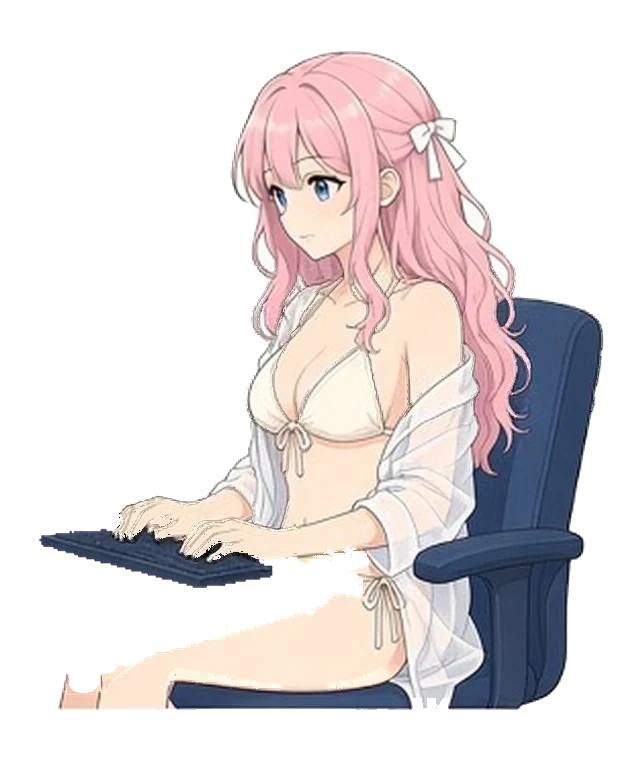
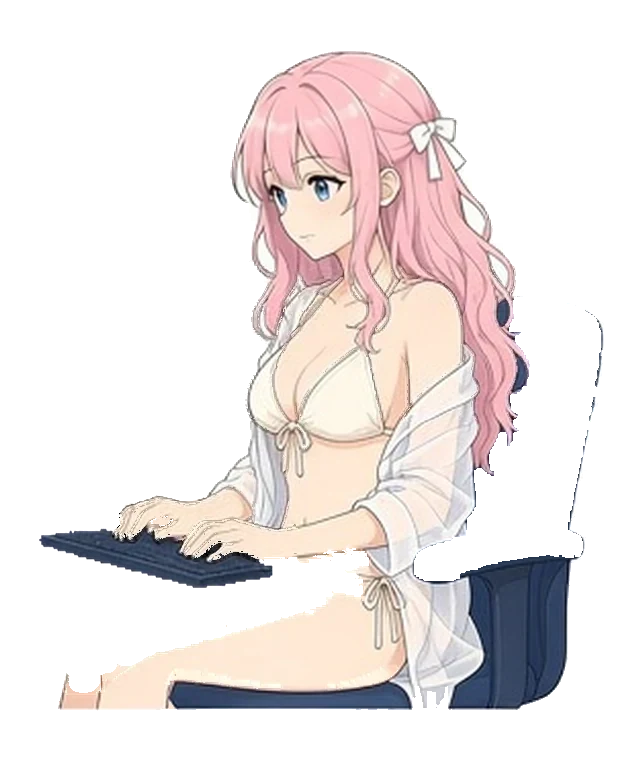
首頁秘書夜間辦公室改為下沉浴缸，托盤接鍵盤並支撐雙螢幕。
立繪去除辦公椅並補單測，保留既有互動與脈動動畫。

Changed region(s): [[0.6394, 0.375, 0.9744, 0.7812], [0.6699, 0.875, 0.7003, 0.9062]]

diff --git a/server/src/main/resources/public/js/private-team-scene.js b/server/src/main/resources/public/js/private-team-scene.js
@@ -65,6 +65,9 @@ export function secretaryTypingDisplayUrl(statusBaseUrl, useTypingB, reducedMoti
 export const PRIVATE_TEAM_ZOOM_MIN = 0.72;
 export const PRIVATE_TEAM_ZOOM_MAX = 2.05;
 
+/** 鍵盤托盤上緣（與原桌面高度相近） */
+export const PRIVATE_TEAM_TRAY_SURFACE_Y = 0.498;
+
 /** 立繪在場景中的高度（公尺比例）；寬度依紋理長寬比計算 */
 const SECRETARY_SPRITE_HEIGHT = 1.42;
 
@@ -78,10 +81,12 @@ const COL = {
   woodDk: 0xa07840,
   wall: 0x243248,
   wallDk: 0x1a2438,
-  rug: 0x6a8fd4,
-  rugEdge: 0xa8d0f2,
   desk: 0x8b6914,
+  tub: 0xe6eef6,
+  tubInner: 0xc8d6e6,
+  water: 0x5a98c4,
   screen: 0x1a2438,
+  screenStand: 0x2a3648,
   progress: 0x2e9a4a,
   plant: 0x3d8b4a,
   pot: 0xc4a882,
@@ -306,16 +311,25 @@ function spriteAspectFromTexture(tex) {
   return 526 / 768;
 }
 
-function addMonitor(root, lookTarget, x, z, scale) {
+function addMonitor(root, lookTarget, x, z, scale, traySurfaceY) {
   const group = new THREE.Group();
   const s = scale == null ? 1 : scale;
+  const trayY = traySurfaceY == null ? PRIVATE_TEAM_TRAY_SURFACE_Y : traySurfaceY;
   group.position.set(x, 0.86, z);
   group.scale.set(s, s, s);
-  const bezel = box(0.64, 0.46, 0.05, COL.screen);
+  const bezel = box(0.58, 0.42, 0.05, COL.screen);
   const painter = makeScreenPainter();
-  const stand = box(0.1, 0.28, 0.08, 0x2a3648);
-  stand.position.y = -0.34;
-  group.add(bezel, painter.mesh, stand);
+  const mountLocalY = trayY - group.position.y;
+  const bezelBottom = -0.21;
+  const standBottom = mountLocalY + 0.008;
+  const standH = Math.max(0.08, bezelBottom - standBottom);
+  const stand = box(0.09, standH, 0.07, COL.screenStand);
+  stand.position.y = (bezelBottom + standBottom) / 2;
+  const basePlate = box(0.15, 0.018, 0.11, COL.screenStand);
+  basePlate.position.y = standBottom - 0.009;
+  const bracket = box(0.04, standH * 0.55, 0.05, COL.screenStand);
+  bracket.position.set(0, standBottom + standH * 0.22, 0.04);
+  group.add(bezel, painter.mesh, stand, basePlate, bracket);
   group.lookAt(lookTarget.x, lookTarget.y, lookTarget.z);
   root.add(group);
 
@@ -323,7 +337,7 @@ function addMonitor(root, lookTarget, x, z, scale) {
   screenGlow.position.set(0, 0.05, 0.12);
   group.add(screenGlow);
 
-  return { painter, screenGlow };
+  return { painter, screenGlow, group };
 }
 
 function addLowPolyPlant(root, x, z) {
@@ -384,7 +398,6 @@ export function mountPrivateTeamScene(canvas, opts) {
   const wallTex = loadRepeatTex(texLoader, 'wall.webp', 2.2, 1.4);
   const floorTex = loadRepeatTex(texLoader, 'floor-wood.webp', 2.4, 2.4);
   const deskTex = loadRepeatTex(texLoader, 'desk-wood.webp', 2.2, 1.2);
-  const rugTex = loadRepeatTex(texLoader, 'rug-weave.webp', 2.2, 1.4);
 
   const root = new THREE.Group();
   scene.add(root);
@@ -394,14 +407,59 @@ export function mountPrivateTeamScene(canvas, opts) {
   floor.position.y = 0;
   root.add(floor);
 
-  const rugMat = new THREE.MeshLambertMaterial({ map: rugTex, color: COL.rug });
-  const rug = extrudedRoundedPlate(1.2, 0.8, 0.028, 0.06, rugMat);
-  rug.position.set(0, 0.038, 0.06);
-  root.add(rug);
-  const edgeMat = new THREE.MeshLambertMaterial({ color: COL.rugEdge });
-  const rugEdge = extrudedRoundedPlate(1.22, 0.82, 0.01, 0.06, edgeMat);
-  rugEdge.position.set(0, 0.048, 0.06);
-  root.add(rugEdge);
+  const TRAY_THICK = 0.036;
+  const TRAY_TOP_Y = PRIVATE_TEAM_TRAY_SURFACE_Y;
+  const trayZ = 0.12;
+  const tubMat = new THREE.MeshLambertMaterial({ color: COL.tub });
+  const tubInnerMat = new THREE.MeshLambertMaterial({ color: COL.tubInner });
+  const tubRim = extrudedRoundedPlate(1.12, 0.78, 0.038, 0.05, tubMat);
+  tubRim.position.set(0, 0.034, 0.05);
+  tubRim.name = 'bathtubRim';
+  root.add(tubRim);
+  const tubFloor = extrudedRoundedPlate(0.98, 0.66, 0.03, 0.04, tubInnerMat);
+  tubFloor.position.set(0, 0.016, 0.05);
+  tubFloor.name = 'bathtubFloor';
+  root.add(tubFloor);
+  const waterMat = new THREE.MeshLambertMaterial({
+    color: COL.water,
+    transparent: true,
+    opacity: 0.52,
+    depthWrite: false
+  });
+  const water = extrudedRoundedPlate(0.96, 0.64, 0.006, 0.04, waterMat);
+  water.position.set(0, 0.058, 0.05);
+  water.name = 'bathtubWater';
+  root.add(water);
+  const tubBack = box(1.02, 0.24, 0.05, COL.tub);
+  tubBack.position.set(0, 0.15, -0.2);
+  tubBack.name = 'bathtubBack';
+  root.add(tubBack);
+  const tubFront = box(1.02, 0.36, 0.055, COL.tub);
+  tubFront.position.set(0, 0.23, 0.88);
+  tubFront.name = 'bathtubFront';
+  root.add(tubFront);
+  const trayMat = new THREE.MeshLambertMaterial({ map: deskTex, color: COL.desk });
+  const tray = extrudedRoundedPlate(0.54, 0.26, TRAY_THICK, 0.04, trayMat);
+  tray.position.set(0, TRAY_TOP_Y - TRAY_THICK, trayZ);
+  tray.name = 'keyboardTray';
+  root.add(tray);
+  const steamPuffs = [];
+  const steamGroup = new THREE.Group();
+  steamGroup.position.set(-0.04, 0.09, 0.26);
+  steamGroup.name = 'tubSteam';
+  for (let si = 0; si < 4; si++) {
+    const puffMat = new THREE.MeshBasicMaterial({
+      color: 0xf8fbff,
+      transparent: true,
+      opacity: 0.07,
+      depthWrite: false
+    });
+    const puff = new THREE.Mesh(new THREE.SphereGeometry(0.035 + si * 0.008, 6, 5), puffMat);
+    puff.position.set((si - 1.5) * 0.055, si * 0.045, 0);
+    steamGroup.add(puff);
+    steamPuffs.push(puff);
+  }
+  root.add(steamGroup);
 
   const wallMat = new THREE.MeshLambertMaterial({ map: wallTex, color: 0xd8e4f4 });
   const backZ = -FLOOR_HALF;
@@ -521,29 +579,27 @@ export function mountPrivateTeamScene(canvas, opts) {
   progMesh.rotation.y = Math.PI / 2;
   root.add(progMesh);
 
-  const deskMat = new THREE.MeshLambertMaterial({ map: deskTex, color: COL.desk });
-  const desk = extrudedRoundedPlate(1.08, 0.43, 0.075, 0.05, deskMat);
-  desk.position.set(0, 0.468, 0.04);
-  root.add(desk);
-
   const secretaryLook = new THREE.Vector3(0.02, 1.02, 0.78);
-  const monitor = addMonitor(root, secretaryLook, 0.02, -0.1, 1);
+  const monitors = [
+    addMonitor(root, secretaryLook, -0.34, -0.06, 0.92, TRAY_TOP_Y),
+    addMonitor(root, secretaryLook, 0.34, -0.06, 0.92, TRAY_TOP_Y)
+  ];
 
   const mug = new THREE.Mesh(
     new THREE.CylinderGeometry(0.09, 0.075, 0.18, 12),
     new THREE.MeshBasicMaterial({ color: COL.mug })
   );
-  mug.position.set(-0.38, 0.58, 0.38);
+  mug.position.set(-0.38, TRAY_TOP_Y + 0.09, 0.32);
   const mugHandle = new THREE.Mesh(
     new THREE.TorusGeometry(0.05, 0.015, 6, 10),
     new THREE.MeshBasicMaterial({ color: COL.mug })
   );
-  mugHandle.position.set(-0.46, 0.58, 0.38);
+  mugHandle.position.set(-0.46, TRAY_TOP_Y + 0.09, 0.32);
   mugHandle.rotation.y = Math.PI / 2;
   root.add(mug, mugHandle);
 
   const lampGroup = new THREE.Group();
-  lampGroup.position.set(0.92, 0.512, 0.42);
+  lampGroup.position.set(0.78, TRAY_TOP_Y + 0.016, 0.36);
   lampGroup.rotation.y = 1.35;
   const lampBase = cyl(0.07, 0.095, 0.045, 12, COL.lampBase);
   lampBase.position.y = 0.022;
@@ -1072,8 +1128,22 @@ export function mountPrivateTeamScene(canvas, opts) {
     }
 
     const pulse = (Math.sin(elapsed * 3) + 1) / 2;
-    monitor.painter.draw(pulse);
-    monitor.screenGlow.intensity = 0.22 + pulse * 0.12;
+    for (let mi = 0; mi < monitors.length; mi++) {
+      monitors[mi].painter.draw(pulse);
+      monitors[mi].screenGlow.intensity = 0.22 + pulse * 0.12;
+    }
+
+    if (reducedMotion) {
+      for (let si = 0; si < steamPuffs.length; si++) {
+        steamPuffs[si].material.opacity = 0;
+      }
+    } else {
+      for (let si = 0; si < steamPuffs.length; si++) {
+        const steamPhase = (Math.sin(elapsed * 1.4 + si * 0.7) + 1) / 2;
+        steamPuffs[si].material.opacity = 0.04 + steamPhase * 0.06;
+        steamPuffs[si].position.y = si * 0.045 + steamPhase * 0.025;
+      }
+    }
 
     if (lampPointBase > 0) {
       const lampPulse = reducedMotion ? 1 : 0.93 + ((Math.sin(elapsed * 3.6) + 1) / 2) * 0.07;

diff --git a/scripts/remove_secretary_chair_for_bathtub.py b/scripts/remove_secretary_chair_for_bathtub.py
@@ -1,0 +1,142 @@
+#!/usr/bin/env python3
+"""Remove office-chair pixels from secretary status sprites (bathtub scene)."""
+from __future__ import annotations
+
+import argparse
+import sys
+from collections import deque
+from pathlib import Path
+from typing import Callable, List, Tuple
+
+import numpy as np
+from PIL import Image
+
+REPO = Path(__file__).resolve().parents[1]
+ASSET_DIR = REPO / "server/src/main/resources/public/assets/private-team"
+
+STATUS_SPRITES = (
+    "secretary-idle-tea.webp",
+    "secretary-typing-a.webp",
+    "secretary-sleep.webp",
+)
+
+EXTRA_SPRITES = (
+    "secretary-typing-b.webp",
+    "secretary-wave.webp",
+    "secretary-yeah.webp",
+)
+
+NAVY_SEEDS = (
+    (320, 181),
+    (539, 316),
+    (556, 442),
+    (200, 420),
+    (450, 520),
+)
+
+WOOD_SEEDS = (
+    (360, 520),
+    (280, 540),
+    (480, 560),
+)
+
+
+def is_navy(r: int, g: int, b: int, a: int) -> bool:
+    return (
+        a > 40
+        and 40 <= r <= 95
+        and 55 <= g <= 105
+        and 88 <= b <= 145
+        and b > r + 20
+    )
+
+
+def is_chair_wood(r: int, g: int, b: int, a: int) -> bool:
+    return (
+        a > 40
+        and 100 <= r <= 200
+        and 60 <= g <= 130
+        and 35 <= b <= 95
+        and r - b >= 35
+    )
+
+
+def flood_mask(
+    rgba: np.ndarray,
+    pred: Callable[[int, int, int, int], bool],
+    seeds: Tuple[Tuple[int, int], ...],
+) -> np.ndarray:
+    r = rgba[:, :, 0]
+    g = rgba[:, :, 1]
+    b = rgba[:, :, 2]
+    a = rgba[:, :, 3]
+    h, w = a.shape
+    seen = np.zeros((h, w), dtype=bool)
+    for sx, sy in seeds:
+        if not pred(int(r[sy, sx]), int(g[sy, sx]), int(b[sy, sx]), int(a[sy, sx])):
+            continue
+        q: deque = deque([(sx, sy)])
+        while q:
+            x, y = q.popleft()
+            if not (0 <= x < w and 0 <= y < h) or seen[y, x]:
+                continue
+            if not pred(int(r[y, x]), int(g[y, x]), int(b[y, x]), int(a[y, x])):
+                continue
+            seen[y, x] = True
+            q.extend(((x + 1, y), (x - 1, y), (x, y + 1), (x, y - 1)))
+    return seen
+
+
+def dilate(mask: np.ndarray, radius: int = 2) -> np.ndarray:
+    if radius <= 0:
+        return mask
+    h, w = mask.shape
+    out = mask.copy()
+    ys, xs = np.where(mask)
+    for y, x in zip(ys, xs):
+        y0 = max(0, y - radius)
+        y1 = min(h, y + radius + 1)
+        x0 = max(0, x - radius)
+        x1 = min(w, x + radius + 1)
+        out[y0:y1, x0:x1] = True
+    return out
+
+
+def clear_chair(rgba: np.ndarray, include_wood: bool) -> np.ndarray:
+    out = rgba.copy()
+    drop = flood_mask(out, is_navy, NAVY_SEEDS)
+    if include_wood:
+        drop |= flood_mask(out, is_chair_wood, WOOD_SEEDS)
+    drop = dilate(drop, 2)
+    out[drop, 3] = 0
+    return out
+
+
+def process(path: Path, include_wood: bool) -> None:
+    im = Image.open(path)
+    if im.size != (624, 768):
+        raise SystemExit(f"{path.name}: expected 624x768 got {im.size}")
+    cleared = clear_chair(np.array(im.convert("RGBA")), include_wood)
+    Image.fromarray(cleared).save(path, format="WEBP", quality=88, method=6)
+    print(f"wrote {path.name}")
+
+
+def main() -> int:
+    parser = argparse.ArgumentParser()
+    parser.add_argument("--extra", action="store_true", help="also process typing-b, wave, yeah")
+    args = parser.parse_args()
+    names: List[str] = list(STATUS_SPRITES)
+    if args.extra:
+        names.extend(EXTRA_SPRITES)
+    for name in names:
+        path = ASSET_DIR / name
+        if not path.exists():
+            print(f"skip missing {name}", file=sys.stderr)
+            continue
+        include_wood = name != "secretary-sleep.webp"
+        process(path, include_wood)
+    return 0
+
+
+if __name__ == "__main__":
+    raise SystemExit(main())
